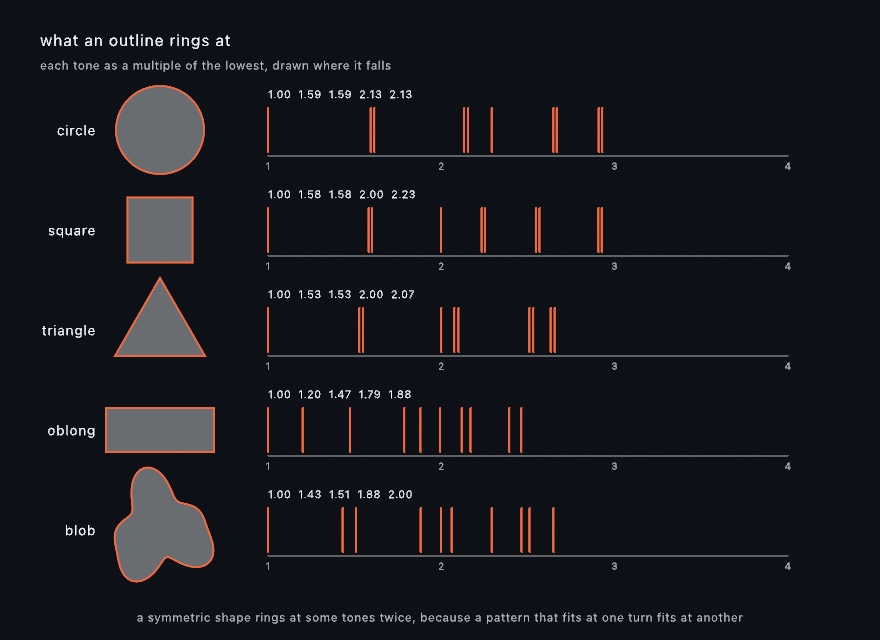
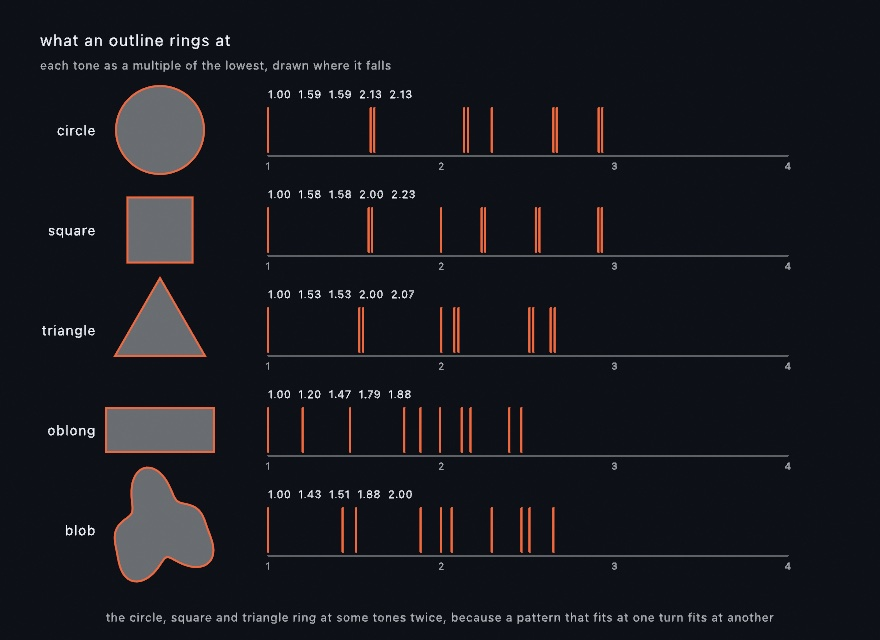
Three figures' captions and comments say what the pictures show. StruckShapes' caption said a symmetric shape rings at some tones twice, but the oblong is symmetric and shows single lines; only the circle, square and triangle show pairs, and the caption now names them. Its header said the circle has
Claude-Session: https://claude.ai/code/session_01WqLtBAH3GLezrn1E1FY2W7

Changed region(s): [[0.4295, 0.9375, 0.8591, 0.9688], [0.1227, 0.9375, 0.3989, 0.9688]]

diff --git a/Guide/Figures/36-MakingSound/StruckShapes.swift b/Guide/Figures/36-MakingSound/StruckShapes.swift
@@ -4,8 +4,11 @@
 // its outline. Each row is a real StruckShape, measured by the same code the
 // sketch runs, so the numbers beside each outline are not illustrations of the
 // idea: they are the answer. The circle's are the zeros of the Bessel
-// functions, which is what a real drumhead rings at, and it has each of them
-// twice because a pattern that fits at one rotation fits at another.
+// functions, which is what a real drumhead rings at. A tone whose pattern is
+// not round comes twice, because a pattern that fits at one rotation fits at
+// another, while the round ones, the lowest among them, come once. The square
+// and the triangle double some of theirs for the same reason; the oblong,
+// which only matches itself after a half turn, doubles none.
 import Ollin
 import OllinDiagram
 import OllinAudio
@@ -51,8 +54,8 @@ final class StruckShapes: Sketch {
         fill(soft)
         textSize(12)
         textAlign(.center, .top)
-        drawText("a symmetric shape rings at some tones twice, because a pattern that fits "
-                 + "at one turn fits at another", 440, 610)
+        drawText("the circle, square and triangle ring at some tones twice, because a pattern "
+                 + "that fits at one turn fits at another", 440, 610)
     }
 
     private func drawRow(name: String, outline: Shape, y: Double) {

diff --git a/Guide/Figures/36-MakingSound/Modulation.swift b/Guide/Figures/36-MakingSound/Modulation.swift
@@ -5,7 +5,7 @@
 // the tones it contains below, measured from the wave itself over two of its
 // periods. The first has nothing above its own note, the middle two grow a
 // harmonic series as the index climbs, and the fourth, at a ratio that is not
-// a whole number, lands between the harmonics instead of on them.
+// a whole number, lands partly on the harmonics and partly between them.
 import Ollin
 import OllinDiagram
 
@@ -64,7 +64,7 @@ final class Modulation: Sketch {
         fill(ink.withAlpha(0.6))
         textSize(15)
         textAlign(.center, .top)
-        drawText("dark bars are the note's own harmonics, red ones fall between them",
+        drawText("\(darkTheme ? "light" : "dark") bars are the note's own harmonics, red ones fall between them",
                  width / 2, 424)
         fill(ink)
         textSize(20)

diff --git a/Guide/Figures/35-ControlsAndSignals/FeltPattern.swift b/Guide/Figures/35-ControlsAndSignals/FeltPattern.swift
@@ -74,8 +74,9 @@ final class FeltPattern: Sketch {
                  size: 15, color: theme.muted, align: .left, .middle)
     }
 
-    /// The plan: every knock the same height, because the hardware has one
-    /// strength. What carries the fade is how close together they stand.
+    /// The plan: the hardware has one strength, so what carries the fade is
+    /// how close together the knocks stand. Height here is only which of the
+    /// three feels a knock asks for: soft, level, or crisp.
     private func drawAsFelt(_ knocks: [TrackpadKnock], in panel: Rectangle, span: Double) {
         diagramFrame(panel, title: "as a trackpad feels it", theme: theme)
         let base = panel.y + panel.height - 46

diff --git a/Docs/Helpers/Synthesis.md b/Docs/Helpers/Synthesis.md
@@ -303,7 +303,7 @@ Only the *ratios* come from the shape. You decide the note when you play it, so 
 
 <picture>
   <source media="(prefers-color-scheme: dark)" srcset="../../Guide/Images/36-MakingSound/StruckShapes-dark.jpg">
-  <img src="../../Guide/Images/36-MakingSound/StruckShapes.jpg" alt="Five outlines, each with the frequencies it rings at drawn on a scale from one to four: a circle, a square, a triangle, an oblong, and an irregular blob, where the symmetric ones show pairs of lines sitting together and the asymmetric ones show single lines" width="680">
+  <img src="../../Guide/Images/36-MakingSound/StruckShapes.jpg" alt="Five outlines, each with the frequencies it rings at drawn on a scale from one to four: a circle, a square, a triangle, an oblong, and an irregular blob, where the circle, square, and triangle show pairs of lines sitting together and the oblong and the blob show single lines" width="680">
 </picture>
 
 | Member | What it does |
@@ -438,7 +438,7 @@ Whole ratios stay musical, because their tones land on the note's own harmonics.
 
 <picture>
   <source media="(prefers-color-scheme: dark)" srcset="../../Guide/Images/36-MakingSound/Modulation-dark.jpg">
-  <img src="../../Guide/Images/36-MakingSound/Modulation.jpg" alt="Four columns, each a wave above the tones it contains: a plain sine with a single bar, the same sine at index 2 and index 6 growing a run of harmonics, and one at ratio 3.5 whose bars land between the harmonics instead of on them" width="680">
+  <img src="../../Guide/Images/36-MakingSound/Modulation.jpg" alt="Four columns, each a wave above the tones it contains: a plain sine with a single bar, the same sine at index 2 and index 6 growing a run of harmonics, and one at index 4 and ratio 3.5 whose bars fall partly on the note's harmonics and partly between them, the ones between drawn in red" width="680">
 </picture>
 
 #### Why it is a fixed size
